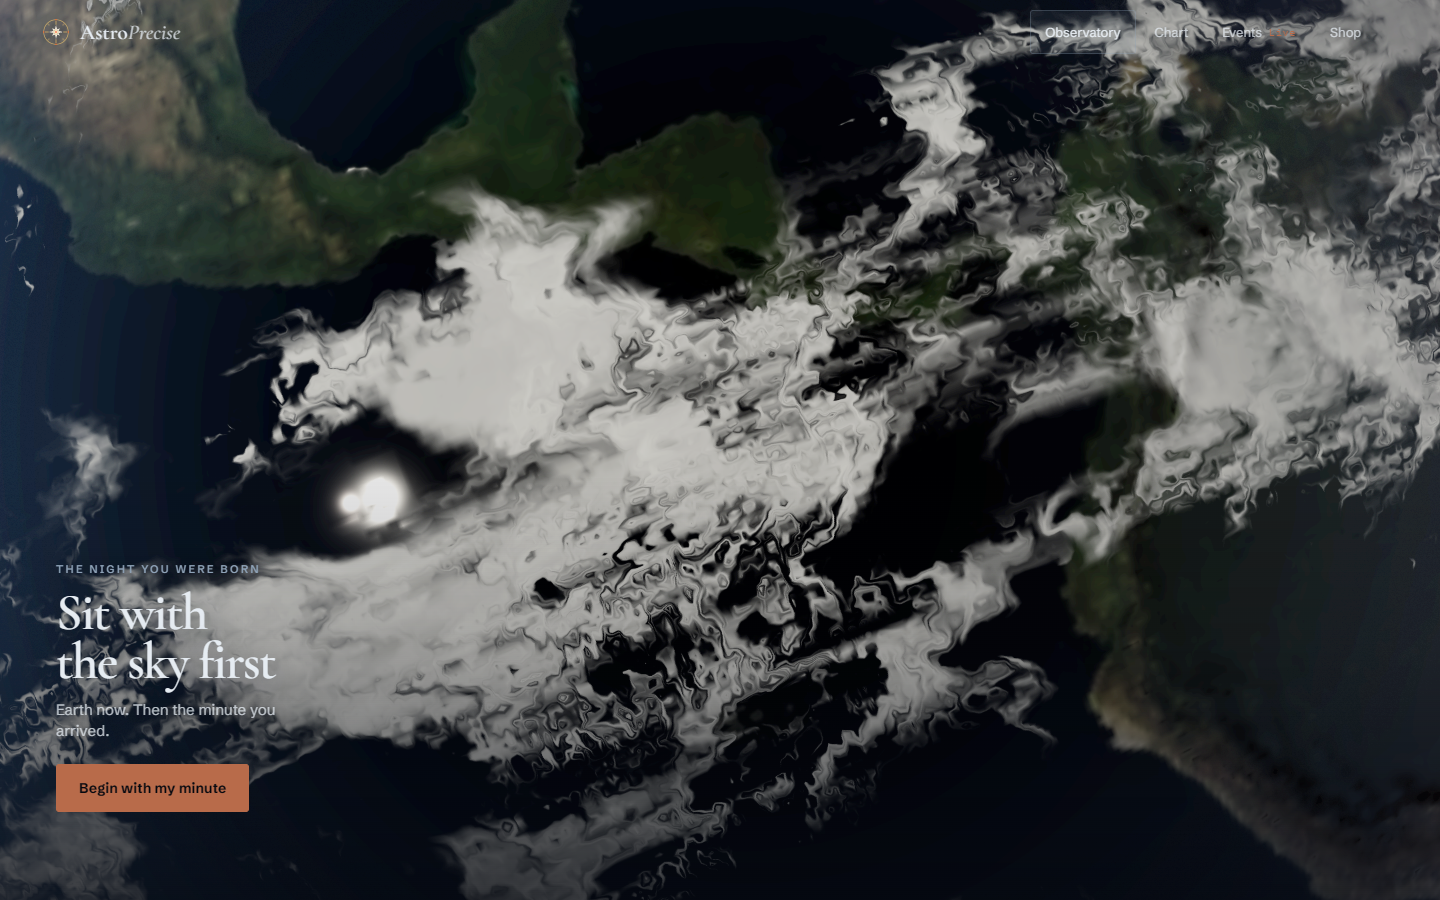
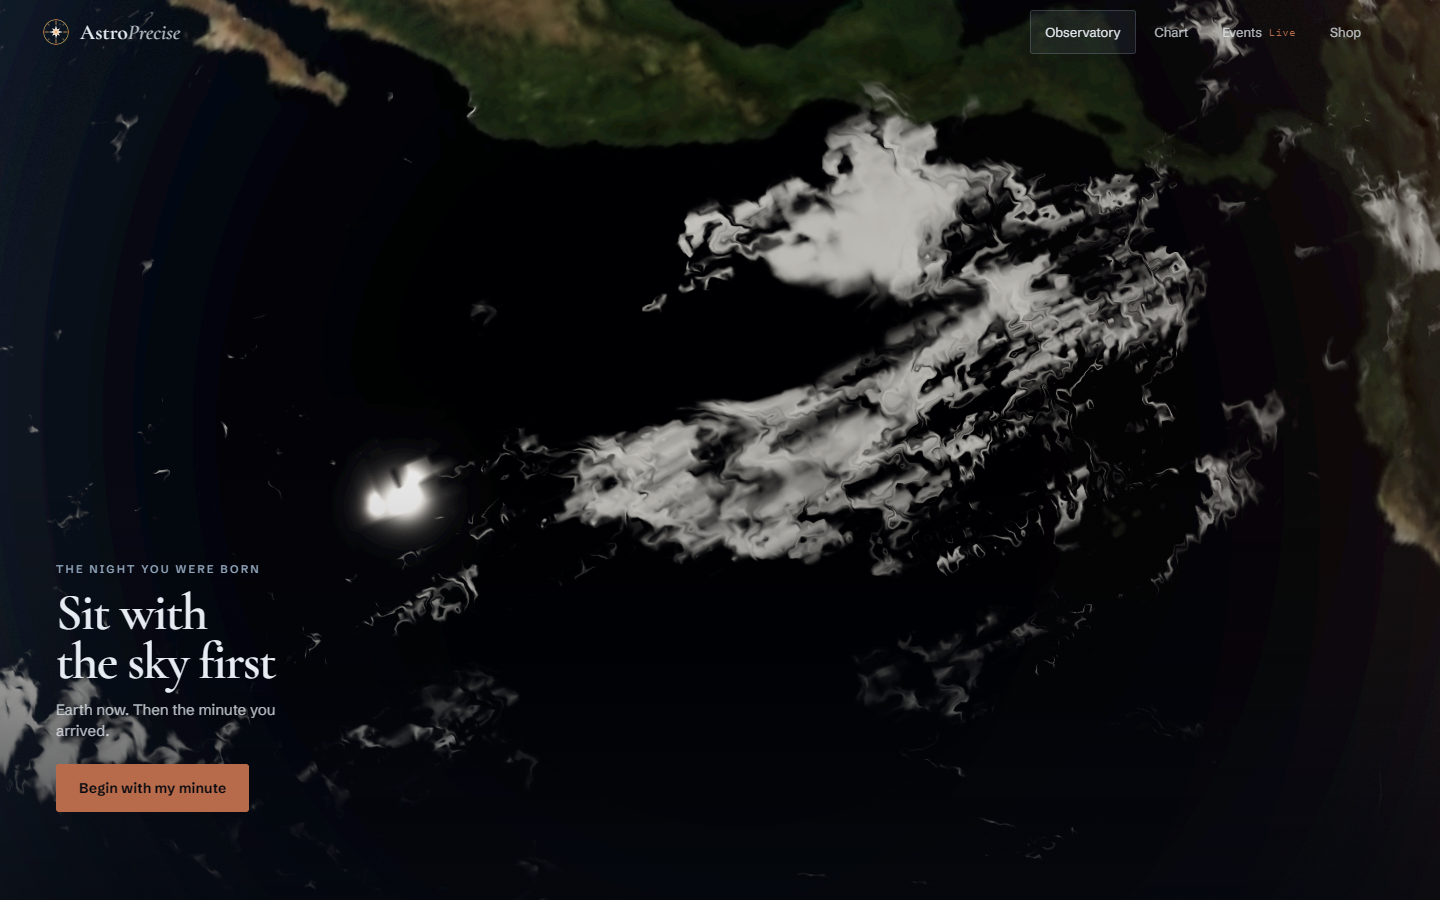
autosnapshot 2026-08-17T22:52:18 (repo-guard)

diff --git a/website/js/orrery-webgl.js b/website/js/orrery-webgl.js
@@ -1815,11 +1815,19 @@ const FinishShader = {
   }
 
   function applyEarthLimbHold() {
-    // Directed Earth pick: fill the limb; 2.05 + hide outer worlds kills Saturn peek.
-    setEarthTerminatorCamera(2.05, 6 * D2R);
+    // Fill the limb without crushing Blue Marble into soft mips (2.05 → 2.18).
+    setEarthTerminatorCamera(2.18, 6 * D2R);
     if (camera) {
       camera.fov = CAM_FOV_CLOSE;
       camera.updateProjectionMatrix();
+    }
+    // Punchier contrast on the first-screen sit — ACES was flattening clouds to mud.
+    if (renderer) renderer.toneMappingExposure = perfTier === 'high' ? 1.28 : 1.18;
+    if (earthAtmoMat && earthAtmoMat.uniforms && earthAtmoMat.uniforms.uIntensity) {
+      earthAtmoMat.uniforms.uIntensity.value = 1.05;
+    }
+    if (earthAtmoMatOuter && earthAtmoMatOuter.uniforms && earthAtmoMatOuter.uniforms.uIntensity) {
+      earthAtmoMatOuter.uniforms.uIntensity.value = 0.14;
     }
     syncEarthSittingBodyVisibility();
   }
@@ -6238,11 +6246,12 @@ const FinishShader = {
         'float roughnessFactor = roughness;\n #ifdef USE_ROUGHNESSMAP\n   vec4 texelRoughness = texture2D( roughnessMap, vRoughnessMapUv );\n   float oceanMask = texelRoughness.g;\n   float oDayR = smoothstep( -0.05, 0.35, dot( normalize( vObjNormalE ), normalize( uSunDir ) ) );\n   roughnessFactor = mix( 0.92, mix( 0.85, 0.05, oDayR ), oceanMask );\n #endif');
 
 
-    // (D) Height / optical-depth cloud deck. Same NASA map. No 1.015 sticker,
-    // no fixed 0.0045 UV-slide. View parallax + sun-ray self-shadow.
+    // (D) Height / optical-depth cloud deck. Same NASA map. No 1.015 sticker.
+    // Sitting close-up: sharper cover + less limb grey/Rayleigh so Blue Marble
+    // stays land/ocean, not a marble wash.
     shader.fragmentShader = shader.fragmentShader
       .replace('#include <map_fragment>',
-        '#include <map_fragment>\n #ifdef USE_MAP\n   float nNdl = dot( normalize( vObjNormalE ), normalize( uSunDir ) );\n   float nDay = smoothstep( -0.12, 0.30, nNdl );\n   if ( uCloudShadow > 0.5 ) {\n     vec3 dN = normalize( vObjNormalE );\n     vec3 dL = normalize( uSunDir );\n     vec3 dV = normalize( cameraPosition - vEarthWP );\n     vec2 dUv = vec2( fract( vMapUv.x + uCloudSpin ), vMapUv.y );\n     float cl0 = texture2D( uCloudTex, dUv ).g;\n     float h = cl0 * 0.016;\n     vec3 Vt = dV - dN * dot( dV, dN );\n     vec2 vUvD = dUv + vec2( Vt.x, Vt.z ) * h;\n     float clH = texture2D( uCloudTex, vUvD ).g;\n     vec3 Lt = dL - dN * dot( dL, dN );\n     vec2 sUv = vUvD - vec2( Lt.x, Lt.z ) * ( 0.008 + h );\n     float clS = texture2D( uCloudTex, sUv ).g;\n     float muL = max( dot( dN, dL ), 0.04 );\n     float selfSh = exp( -clS * ( 0.85 + h * 22.0 ) / muL );\n     float cover = smoothstep( 0.10, 0.70, clH );\n     diffuseColor.rgb *= ( 1.0 - cover * 0.48 * nDay * ( 1.0 - selfSh * 0.55 ) );\n     vec3 cloudCol = vec3( 0.92, 0.95, 0.98 ) * ( 0.50 + 0.50 * selfSh );\n     diffuseColor.rgb = mix( diffuseColor.rgb, cloudCol, cover * nDay );\n   }\n   diffuseColor.rgb *= mix( vec3( 0.035, 0.04, 0.055 ), vec3( 1.0 ), nDay );\n   float nDusk = pow( clamp( 1.0 - abs( nNdl ), 0.0, 1.0 ), 4.0 ) * smoothstep( -0.12, 0.22, nNdl );\n   diffuseColor.rgb += vec3( 0.55, 0.22, 0.08 ) * nDusk * 0.22;\n   vec3 eN = normalize( vEarthWN );\n   vec3 eV = normalize( cameraPosition - vEarthWP );\n   float mu = max( dot( eN, eV ), 0.001 );\n   float od = clamp( pow( 1.0 - mu, 1.45 ) * 1.18, 0.0, 1.0 );\n   float grey = dot( diffuseColor.rgb, vec3( 0.30, 0.54, 0.16 ) );\n   diffuseColor.rgb = mix( diffuseColor.rgb, vec3( grey ), od * 0.58 * nDay );\n   vec3 rayleigh = vec3( 0.16, 0.42, 0.92 );\n   vec3 mie = vec3( 0.88, 0.92, 0.98 );\n   diffuseColor.rgb = mix( diffuseColor.rgb, rayleigh, od * 0.40 * nDay );\n   float hg = pow( max( dot( normalize( uSunDir ), eV ), 0.0 ), 6.0 );\n   diffuseColor.rgb += mie * od * nDay * ( 0.06 + hg * 0.10 );\n #endif');
+        '#include <map_fragment>\n #ifdef USE_MAP\n   float nNdl = dot( normalize( vObjNormalE ), normalize( uSunDir ) );\n   float nDay = smoothstep( -0.12, 0.30, nNdl );\n   if ( uCloudShadow > 0.5 ) {\n     vec3 dN = normalize( vObjNormalE );\n     vec3 dL = normalize( uSunDir );\n     vec3 dV = normalize( cameraPosition - vEarthWP );\n     vec2 dUv = vec2( fract( vMapUv.x + uCloudSpin ), vMapUv.y );\n     float cl0 = texture2D( uCloudTex, dUv ).g;\n     float h = cl0 * 0.012;\n     vec3 Vt = dV - dN * dot( dV, dN );\n     vec2 vUvD = dUv + vec2( Vt.x, Vt.z ) * h;\n     float clH = texture2D( uCloudTex, vUvD ).g;\n     vec3 Lt = dL - dN * dot( dL, dN );\n     vec2 sUv = vUvD - vec2( Lt.x, Lt.z ) * ( 0.006 + h );\n     float clS = texture2D( uCloudTex, sUv ).g;\n     float muL = max( dot( dN, dL ), 0.04 );\n     float selfSh = exp( -clS * ( 0.70 + h * 18.0 ) / muL );\n     float cover = smoothstep( 0.28, 0.78, clH );\n     diffuseColor.rgb *= ( 1.0 - cover * 0.28 * nDay * ( 1.0 - selfSh * 0.45 ) );\n     vec3 cloudCol = vec3( 0.96, 0.98, 1.0 ) * ( 0.62 + 0.38 * selfSh );\n     diffuseColor.rgb = mix( diffuseColor.rgb, cloudCol, cover * cover * nDay * 0.88 );\n   }\n   diffuseColor.rgb *= mix( vec3( 0.028, 0.032, 0.048 ), vec3( 1.0 ), nDay );\n   float nDusk = pow( clamp( 1.0 - abs( nNdl ), 0.0, 1.0 ), 4.0 ) * smoothstep( -0.12, 0.22, nNdl );\n   diffuseColor.rgb += vec3( 0.55, 0.22, 0.08 ) * nDusk * 0.16;\n   vec3 eN = normalize( vEarthWN );\n   vec3 eV = normalize( cameraPosition - vEarthWP );\n   float mu = max( dot( eN, eV ), 0.001 );\n   float od = clamp( pow( 1.0 - mu, 1.65 ) * 0.95, 0.0, 1.0 );\n   float grey = dot( diffuseColor.rgb, vec3( 0.30, 0.54, 0.16 ) );\n   diffuseColor.rgb = mix( diffuseColor.rgb, vec3( grey ), od * 0.22 * nDay );\n   vec3 rayleigh = vec3( 0.14, 0.38, 0.88 );\n   vec3 mie = vec3( 0.90, 0.94, 0.99 );\n   diffuseColor.rgb = mix( diffuseColor.rgb, rayleigh, od * 0.16 * nDay );\n   float hg = pow( max( dot( normalize( uSunDir ), eV ), 0.0 ), 6.0 );\n   diffuseColor.rgb += mie * od * nDay * ( 0.04 + hg * 0.08 );\n #endif');
 
     // (E) TERMINATOR-GATED REAL CITY LIGHTS + warm dusk band (overwrite, never bleed onto day side)
     shader.fragmentShader = shader.fragmentShader

diff --git a/website/index.html b/website/index.html
@@ -24,8 +24,8 @@
   <script type="importmap">
     { "imports": { "three": "./js/vendor/three/three.module.min.js", "three/addons/": "./js/vendor/three/jsm/" } }
   </script>
-  <link rel="modulepreload" href="js/orrery-webgl.js?v=888">
-    <script src="js/void-orrery-adapter.js?v=888" defer></script>
+  <link rel="modulepreload" href="js/orrery-webgl.js?v=890">
+    <script src="js/void-orrery-adapter.js?v=890" defer></script>
     <script src="js/ap-nav-model.js?v=884" defer></script>
     <link rel="stylesheet" href="css/ap-living-sky-v834.css?v=883">
     <link rel="stylesheet" href="css/ap-phone-pass.css?v=880">

diff --git a/website/chart.html b/website/chart.html
@@ -70,8 +70,8 @@
     <script type="importmap">
     { "imports": { "three": "./js/vendor/three/three.module.min.js", "three/addons/": "./js/vendor/three/jsm/" } }
   </script>
-  <link rel="modulepreload" href="js/orrery-webgl.js?v=888">
-  <script src="js/void-orrery-adapter.js?v=888" defer></script>
+  <link rel="modulepreload" href="js/orrery-webgl.js?v=890">
+  <script src="js/void-orrery-adapter.js?v=890" defer></script>
   <link rel="stylesheet" href="css/ap-living-sky-v834.css?v=880" />
     <link rel="stylesheet" href="css/ap-phone-pass.css?v=880">
   <link rel="stylesheet" href="css/ap-home-v835.css?v=885">

diff --git a/website/sky-card.html b/website/sky-card.html
@@ -74,7 +74,7 @@
 }
 @media(prefers-reduced-motion:reduce){*{animation:none!important;transition:none!important}}
 </style>
-<script>window.AP_ASSET_V='888';</script>
+<script>window.AP_ASSET_V='890';</script>
 <link rel="stylesheet" href="css/ap-living-sky-v834.css?v=888">
 <link rel="stylesheet" href="css/ap-phone-pass.css?v=888">
 <script src="js/ap-nav-model.js?v=888" defer></script>

diff --git a/website/js/ap-asset-v.js b/website/js/ap-asset-v.js
@@ -1,6 +1,6 @@
 /** Shared release tip for runtime injectors; advanced with sw.js by the generator. */
 (function (g) {
   'use strict';
-  g.AP_ASSET_V = '889';
+  g.AP_ASSET_V = '890';
   g.AP_CACHE_V = 'ap-v' + g.AP_ASSET_V;
 })(typeof window !== 'undefined' ? window : globalThis);

diff --git a/website/sw.js b/website/sw.js
@@ -6,7 +6,7 @@
  * stale-while-revalidate for other same-origin assets.
  */
 
-const V = "ap-v889";
+const V = "ap-v890";
 
 /* PRECACHE_BEGIN — generated by tools/generate-sw-precache.mjs */
 const PRECACHE_MODE = 'launch-shell';

diff --git a/STATUS.md b/STATUS.md
@@ -1,6 +1,6 @@
 # STATUS — AstroPrecise
 
-**State (2026-08-17 ~21:05 BOOK-T1H4NJ753R):** live still `ap-v876`. Local tip **ap-v889** — chart first screens restarted (Earth band + wheel hero). Not a 10 until owner eye. Not pushed. `main` is 7 commits ahead of `origin/main`.
+**State (2026-08-17 ~21:20 BOOK-T1H4NJ753R):** live still `ap-v876`. Local tip **ap-v890** — Earth cloud/limb shader pass. Owner scored 3 before this; not re-scored. Not pushed. `main` is 7 commits ahead of `origin/main`.
 
 ## Now
 - Chart form screen: Earth band + title + form (eclipse/keep hidden)
